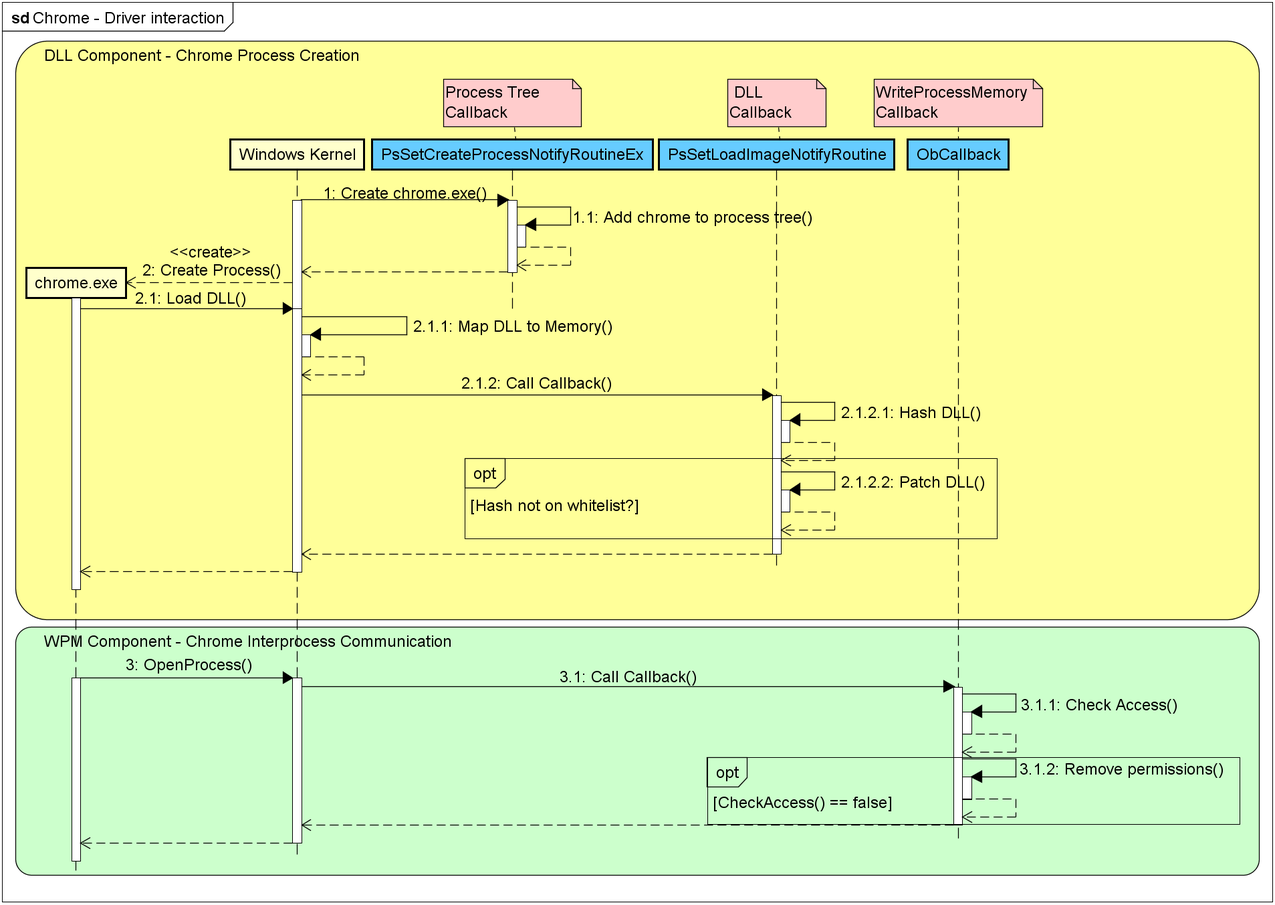
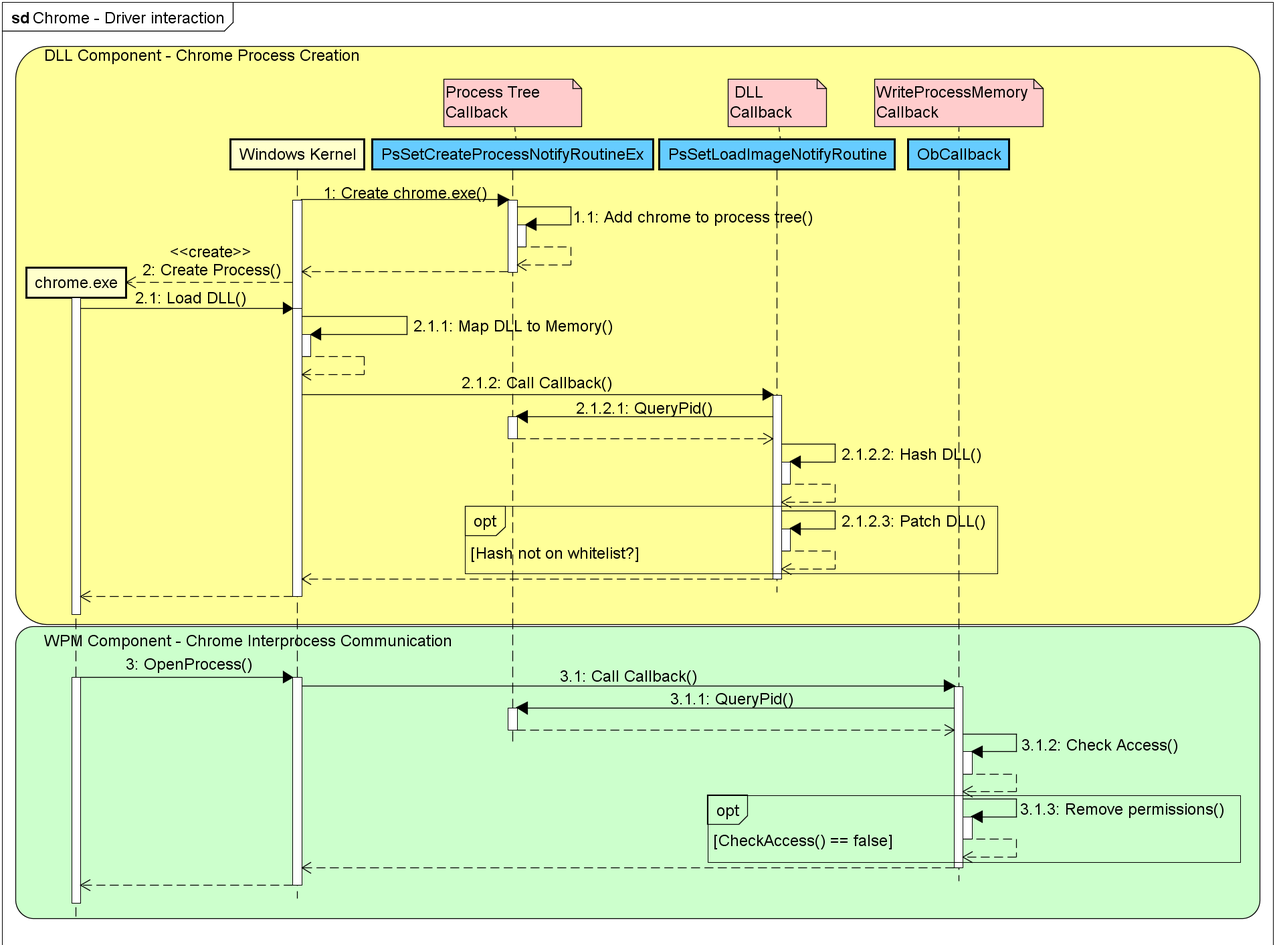
Finished design and implementation section

diff --git a/sections/implementation/implementation.tex b/sections/implementation/implementation.tex
@@ -1,32 +1,74 @@
-\section{Design and Implementation}
-The upcoming Design and Implementation chapter describes possible countermeasures to the previously shown attacks. The best working one is then being implemented.
-\input{sections/implementation/requirements.tex}
-\input{sections/implementation/architecture.tex}
 \subsection{Implementation}
 \label{sec:implementation} 
+Figure \ref{fig:interaction} showed a high level overview of the interaction between the needed callbacks. This section will focus on an actual implementation of the given architecture. To fulfill the requirement of not being disabled or avoided from usermode, this implemented defense is running in kernelmode and can not be access from usermode applications. Running applications in kernelmode is possible by using a driver and the callback functions of Figure \ref{fig:interaction} can be used. Figure \ref{fig:sequence} shows the actual communication between all involved objects, the \emph{Windows} kernel, the implemented driver and its callbacks and an actual process, in this case chrome.exe. The sequence diagram separates the communication into two parts represented by the colors yellow and green. The yellow part shows the interaction of the \gls{DLL} Component, the green part deals with the \gls{WPM} component. The third and last component, the process tree structure is involved in both \gls{DLL} and \gls{WPM} component. Appendix \ref{appendix:driver} shows the full code used for the implemented driver.
+\newgeometry{margin=0mm,headheight=0mm,footskip=0mm,includehead,includefoot}
+\begin{figure*}[htb] 
+ \centering
+ \makebox[\textwidth]{\includegraphics[angle=90,width=.85\paperwidth]{sections/implementation/driver-sequence.png}}
+\caption{Sequence diagram showing the interaction between driver, \emph{Chrome} and the \emph{Windows} kernel}
+\label{fig:sequence}
+\end{figure*}
+\restoregeometry
+\subsubsection{The Process Tree structure}
+A naive implementation that just checks for process' executable file name may result in an access gain for the attacker. In this case the attacker could rename itself to avoid the implemented countermeasure. To make the countermeasure unavoidable, a process tree structure is created, which tracks the actual \glspl{PID} to keep track of process hierarchies. The process tree structure stores processes into a linked list. Figure \ref{code:code1} shows the used code to define the process tree structure. Two structs are used, the first \syscall{\_PROCESS\_LIST\_ENTRY} represents parent processes of the list. The second, \syscall{\_PROCESS\_LIST\_ENTRY\_CHILD} represents child process of a parent process. The linked list structure is built by calling \syscall{InitializeListHead} \cite{msdn_initlisthead}.
+\begin{figure}[tbph]
+\inputminted[breakanywhere, breaklines,fontsize=\scriptsize, frame=single, mathescape, linenos, numbersep=5pt, numbersep=5pt, xleftmargin=0pt]{c}{sections/implementation/code1.c}
+\caption{Process Tree base structure}
+\label{code:code1}
+\end{figure}
+Whenever the \emph{Windows} kernel calls \syscall{PsSetCreateProcessNotifyRoutineEx} entries are added to or removed from the linked list structure. Figure \ref{code:code2} shows the method used for inserting such a process. At first, the process tree structure is searched for the given \gls{PID}. If the \gls{PID} is not part of the current process tree, a new entry is added. The list head for possible child processes needs to be initialized as well.
+\begin{figure}[tbph]
+\inputminted[breakanywhere, breaklines,fontsize=\scriptsize, frame=single, mathescape, linenos, numbersep=5pt, numbersep=5pt, xleftmargin=0pt]{c}{sections/implementation/code2.c}
+\caption{InsertPidToTree routine of the process tree structure}
+\label{code:code2}
+\end{figure}
+Because the process tree is used for \gls{DLL} and \gls{WPM}, a special query method is used, \syscall{FindPidInTree}. This function searches the process tree to find an existing \gls{PID} and is represented in Figure \ref{code:code3}. At first, all parents are checked. As most processes contain only a few or no children, this is faster than iterating over all processes at once. Only if no match is found, a one level deeper search is performed. This time, children are checked. If a match is found, the corresponding parent \gls{PID} is returned, or zero otherwise. The mapping of child \glspl{PID} to parent \glspl{PID} is important, to identify processes that are definitely allowed to do inter process communication.
+\begin{figure}[tbph]
+\inputminted[breakanywhere, breaklines,fontsize=\scriptsize, frame=single, mathescape, linenos, numbersep=5pt, numbersep=5pt, xleftmargin=0pt]{c}{sections/implementation/code3.c}
+\caption{FindPidInTree routine of the process tree structure}
+\label{code:code3}
+\end{figure}
 
-\subsection{Blocking \syscall{WriteProcessMemory} with a kernel mode driver}
-The newly created problem with the modified \gls{ACL} can be solved by creating a driver running in kernel-mode. As reading memory, checking files and running processes are a common problem when writing anti virus software, Microsoft introduced object manager routines since Windows Vista to provide an efficient way of reacting onto these events. A driver will then use \syscall{ObRegisterCallbacks} to get notified whenever processes are created, files are opened and images (\glspl{DLL} and EXEs) are loaded. This functionality offers the programmer to create a pre- and post-execution callback function, that gets called whenever a process tries to receive a process handle. Microsoft offers an example driver using \syscall{ObRegisterCallbacks} at \cite{github_obcallback} and shows how to modify the requested process handle permissions to prevent termination by other applications such as the task manager. 
+\subsubsection{The DLL Component}
+The DLL Component uses as entry point the \syscall{PsSetLoadImageNotifyRoutine} callback function. This function is executed whenever a \gls{DLL} is mapped into memory. During the function call, the process is in a suspended state and thus execution of the \gls{DLL} has not begun. However, this entry point for \gls{DLL} load prevention is not optimal, as this function call occurs after the \gls{DLL} was already mapped into memory and a pre loading callback would be better to use in this situation. Unfortunately, this callback function does not exist so far, so the implementation has to rely on the post load callback.
 
-In order to protect chrome, the same actions described earlier will now be taken from inside the driver. Newly created process handles will be restricted to non virtual memory modifying permissions and the existing problem with inter process communication can be resolved by not restricting chromes child processes explicitly and giving them a full access handle. Appendix \ref{appendix:driver} shows an implemented driver to fulfill the requirements.
+\medskip
 
-However, a naive implementation that just checks for process' executable file name may result in an access gain for the attacker. The injecting process simply has to be named chrome.exe and can gain access to the original chrome.exe. In this case, the implementation restricts outside access regardless of the given process name successfully. Children and parent \glspl{PID} are stored inside two separate tables that are on access checked if they contain target and source process ids. The driver is using a dynamic list structure, so that an unlimited number of processes can be tracked. Finally the check for access rights can be done by finding a given \gls{PID} inside the defined lists and returning a hash value, which uniquely identifies the process. 
+To make use of \syscall{PsSetLoadImageNotifyRoutine}, the \gls{IRQL} may not be changed, because otherwise it can lead to a deadlock or even make the system crash in a blue screen of death. The \gls{IRQL} is a hardware specific flag that gets set on the processor. Depending of the chosen level, the processor may not do a context switch until the \gls{IRQL} has been changed back to a lower value. \syscall{PsSetLoadImageNotifyRoutine} operates on \gls{IRQL} \syscall{PASSIVE\_LEVEL} and special kernel mode \glspl{APC} are disabled. \glspl{APC} are required to receive special event information. This can typically be found with I/O operations, where a file is being read. The kernel will fire an event as soon as the file read operation has finished, which wakes the calling thread and execution can continue. However, reading a file without such events will always deadlock the thread. These two conditions, the \gls{IRQL} and disabled \glspl{APC} are a major limitation, because reading the DLL file and calculating a hash is not possible inside this routine. The reason for the disabled special kernel mode \glspl{APC} is a previous call to the \syscall{KeEnterGuardedRegion} function, so a call to \syscall{KeLeaveGuardedRegion} can enable \gls{APC} events again. However, this should not be done here, as the result turns out to be unpredictable and leading to random deadlocks or failing accesses on files.
 
-A good hash for this tree is the parent \gls{PID}, as the process hierarchy is tracked inside the list. Only if both find operations result in a match of the returned \glspl{PID}, access is granted and no restriction is applied. Entries of the list (parent or child process) will get removed as soon as they exit, so that the remaining list is kept clean from garbage and reassignments of the same \gls{PID} do not lead to a security hole.
+\medskip
 
-\subsection{Blocking DLL Injection with a kernel mode driver}
-As previously stated, the resulting implementation already uses a kernel mode driver to prevent \gls{WPM} calls. It is therefore a suitable start point to prevent \gls{DLL} injections without being required to hook into the kernel. The Windows \gls{API} for drivers offers the \syscall{PsSetLoadImageNotfiyRoutine} function call, to register a callback function that is executed whenever a \gls{DLL} is mapped into memory. During the function call, the process is in a suspended state and thus execution of the \gls{DLL} has not begun. However, this entry point for \gls{DLL} load prevention is not optimal, as this function call occurs after the \gls{DLL} was already mapped into memory and a pre loading callback would be better to use in this situation. Unfortunately, this callback function does not exist so far, so the implementation has to rely on the post load callback.
+A solution can be found by using a second running thread, a so called work item, which execution is handled separately by the system. The advantage of this are the enabled special kernel mode \glspl{APC} and the possibility to freely change the \gls{IRQL} during execution. One major disadvantage of this way is, that some sort of thread synchronization between the work item and the initial callback function has to be introduced and thus resulting into driver typical busy waiting, which is still faster than non busy waiting and eventually occurring context changes. Figure \ref{code:code4} shows code which is executed after the callback function is called. At first, it is checked if the target process is a chrome.exe process. Only in this case, further checks are done and in the other case, DLL loading is permitted. The execution then continues with the code shown in Figure \ref{code:code5}, which is greatly simplified. The complete function is defined in Appendix \ref{appendix:driver}. A file handle to the DLL is obtained. Depending on the given input parameters to \syscall{PsSetLoadImageNotifyRoutine}, the given file path might be invalid. According to the \gls{MSDN} it is enough to use \syscall{ObOpenObjectByPointer} to get a file handle from a file object. As it turns out, this function is not working properly. The first call to \syscall{ObOpenObjectByPointer} succeeds and returns a valid file handle. All subsequent calls fail with \syscall{STATUS\_UNSUCCESSFUL}. Kernel debugging allows to find the reason of failure, which is an internal call to \syscall{ObpIncrementHandleCount} that returns \syscall{STATUS\_UNSUCCESFUL}. There can be found nothing with respect to this problem and it might be a bug inside the \emph{Windows} kernel itself. Therefore, manually path building is done which adds the corresponding drive letter and removes superfluous characters. Finally, after having a valid file handle, the file is read into memory and a sha256 \cite{eckert2014sicherheit} hash is generated, which is used later to compare it to a known whitelist of \gls{DLL} files.
 
-To make use of \syscall{PsSetLoadImageNotifyRoutine}, the \gls{IRQL} may not be changed, because otherwise it can lead to a deadlock or even make the system crash in a blue screen of death. Most notably is the fact that the function call occurs on \gls{IRQL} \syscall{PASSIVE\_LEVEL} and special kernel mode \glspl{APC} are disabled. This is at first a major limitation to naive implementations. Opening and reading file calls will not complete, as the underlying \gls{APC} event is not sent, thus in a naive implementation, reading a file seems impossible at a first glance. The reason for the disabled special kernel mode \glspl{APC} is a previous call to the \syscall{KeEnterGuardedRegion} function, so a call to \syscall{KeLeaveGuardedRegion} can enable \gls{APC} events again. However, this should not be done here, as the result turns out to be unpredictable and leading to random deadlocks or failing accesses on files.
+\begin{figure}[tbph]
+\inputminted[breakanywhere, breaklines,fontsize=\scriptsize, frame=single, mathescape, linenos, numbersep=5pt, numbersep=5pt, xleftmargin=0pt]{c}{sections/implementation/code4.c}
+\caption{Code that checks if the target process is a chrome.exe process}
+\label{code:code4}
+\end{figure}
 
-Having a deeper look at the windows kernel with a kernel debugger, a solution can be obtained by using a second running thread, a so called work item, which execution is handled separately by the system. The advantage of this are the enabled special kernel mode \glspl{APC} and the possibility to freely change the \gls{IRQL} during execution. One major disadvantage of this way is, that some sort of thread synchronization between the work item and the initial callback function has to be introduced and thus resulting into driver typical busy waiting, which is still faster than non busy waiting and eventually occurring context changes. 
+\begin{figure}[tbph]
+\inputminted[breakanywhere, breaklines,fontsize=\scriptsize, frame=single, mathescape, linenos, numbersep=5pt, numbersep=5pt, xleftmargin=0pt]{c}{sections/implementation/code5.c}
+\caption{The used hashing function to generate sha256 from DLL files}
+\label{code:code5}
+\end{figure}
+\medskip
 
-A file handle can now be obtained and from the file data a sha256 \cite{eckert2014sicherheit} hash is generated, which is used later to compare it to a known whitelist of \gls{DLL} files. The Windows \gls{API} offers several different ways of obtaining a valid file handle with functions like \syscall{ZwOpenFile} or \syscall{ObOpenObjectByPointer}. The second function \syscall{ObOpenObjectByPointer} will generate a handle from a given pointer to an object. That is exactly what can be found inside the input parameters of the \syscall{PsSetLoadImageNotifyRoutine} callback. The image info can be extended to obtain a file object, and the \syscall{ObOpenObjectByPointer} function can then be used to obtain a handle from this file object. Though, this did not work in all cases and lead to \emph{random} results. 
+\begin{figure}[tbph]
+\inputminted[breakanywhere, breaklines,fontsize=\scriptsize, frame=single, mathescape, linenos, numbersep=5pt, numbersep=5pt, xleftmargin=0pt]{c}{sections/implementation/code6.c}
+\caption{The used patch function to destroy DLL files.}
+\label{code:code6}
+\end{figure}
+Comparing the resulting sha256 hash to a whitelist leads to two possible actions that are now taken: doing nothing, in case of a match or, patching of the \gls{DLL} file, in case of no match. Figure \ref{code:code6} shows the used patch function, that is executed whenever no match in the whitelist is found.
+An initial thought could be to undo the internal \syscall{ZwMapViewOfSection}/\syscall{NtMapViewOfSection} function that loaded the \gls{DLL} into memory by calling its counter pair \syscall{ZwUnmapViewOfSection}/\syscall{NtUnmapViewOfSection} and thus removing the \gls{DLL} from memory. This will not succeed as a special lock is hold, the LdrLoadLoaderLock, that can not be accessed at this point of code. Calling the functions regardless will deadlock the driver and soon after deadlock the whole system. 
 
-If a file was opened a first time, \syscall{ObOpenObjectByPointer} will succeed and return a valid file handle. Subsequent calls to the same file lead to error \syscall{STATUS\_UNSUCCESSFUL} for no obvious reason. Kernel-debugging allowed to find the reason of failure, which is an internal call to \syscall{ObpIncrementHandleCount} that returns \syscall{STATUS\_UNSUCCESFUL}. There can be found nothing with respect to this problem and it might be a bug inside the windows kernel itself. 
-
-Therefore, \syscall{ObOpenObjectByPointer} can not be used and only \syscall{ZwOpenFile} works as expected, but gives a new problem, the full file path. Path constructions is required, but will overall work and allow reading of all loaded \gls{DLL} files. Finally, the resulting sha256 hash can be calculated and compared to the whitelist and if no match is found, actions can be taken to prevent the \gls{DLL} from executing. 
-
-An initial thought could be to undo the internal \syscall{ZwMapViewOfSection}/\syscall{NtMapViewOfSection} function that loaded the \gls{DLL} into memory by calling its counter pair \syscall{ZwUnmapViewOfSection}/\syscall{NtUnmapViewOfSection} and thus removing the \gls{DLL} from memory. The idea is great, but will not succeed as a special lock is hold, the LdrLoadLoaderLock, that can not be accessed at this point of code. Calling the functions regardless will deadlock the driver and soon after deadlock the whole system.
+\medskip
 
 Thus, the \gls{DLL} will only get patched, rendering it, although still residing in memory, useless. To do that, three points in memory receive modifications: the entry point address, the \syscall{DOS MZ header}, which describes the file format of a \gls{DLL} with many meta information and the entry point function. The entry point address is set to \syscall{NULL}, the entry point function will get patched with a single \syscall{ret} (0xC3) instruction to prevent execution and the memory containing the \syscall{DOS MZ header} will get zeroed. All three steps guarantee, that nothing will be able to execute from this memory mapped \gls{DLL} file and thus preventing the typical \gls{DLL} injections from \syscall{SetWindowsHookEx}, the registry or other techniques.
+
+\subsubsection{The WPM Component}
+The \gls{WPM} component uses as entry point a callback function registered with \syscall{ObRegisterCallback}. This callback function is called whenever a process handle is created. \syscall{ObRegisterCallbacks} allows to setup a pre- and post-execution callback to modify the permissions requested with the process handle. Microsoft offers an example driver using \syscall{ObRegisterCallbacks} at \cite{github_obcallback} and shows how to modify the requested process handle permissions to prevent termination by other applications such as the task manager. In order to protect chrome, the same structure \emph{Microsoft} uses is used. Instead of preventing termination, the permissions of modifying a process virtual memory are removed. Figure \ref{code:code7} contains the code which is executed whenever the callback function is executed. At first, both processes, the target and the current one, need to be retrieved. Then several checks are done to see if the virtual memory modifications should be allowed. If the current and target processes have the same \gls{PID}, nothing is done. Otherwise a lookup in the Process Tree structure is done, to receive the corresponding parent \glspl{PID}. If the parent \glspl{PID} match, nothing is done. In case no match is found, the permission \syscall{PROCESS\_VM\_WRITE} is removed from the process handle and calls to \syscall{WriteProcessMemory} will fail.
+\begin{figure}[tbph]
+\inputminted[breakanywhere, breaklines,fontsize=\scriptsize, frame=single, mathescape, linenos, numbersep=5pt, numbersep=5pt, xleftmargin=0pt]{c}{sections/implementation/code7.c}
+\caption{The used callback function to detect virtual memory modifications.}
+\label{code:code7}
+\end{figure}

diff --git a/sections/implementation/architecture.tex b/sections/implementation/architecture.tex
@@ -8,25 +8,19 @@ The attacks of Section \ref{sec:attacks} can be classified into two groups which
 \label{fig:interaction}
 \end{figure}
 
-\medskip
-
-The classification into the two groups, \gls{DLL} and \gls{WPM}, is used to for the architecture design. Figure \ref{fig:interaction} shows the interacting components in an abstract representation. \emph{Windows} offers three entry points that will get called by the kernel, whenever a process is started, opened or a \gls{DLL} is loaded. The registered callback functions will then need to do several checks on the given information and based on this allow or deny execution. To prevent the group of \gls{WPM} attacks, a WPM callback is registered which checks if the given \gls{PID} is in a whitelist. If it is not, the request is denied by removing the required permissions to execute \gls{WPM} attacks. Because \glspl{PID} are dynamically assigned by the kernel and the possibility of reusing \glspl{PID}, a internal structure, a process tree, needs to be maintained. This thus adds communication between the three callback functions and the process tree as seen in Figure \ref{fig:interaction}. The \syscall{PsSetCreateProcessNotifyRoutine} callback function is called whenever a process is created or destroyed. Accordingly, whenever this callback function is executed, the process is inserted into the process tree structure on process creation, and removed from the process tree structure on process deletion. The process tree hereby maintains a list of lists, which is shown in Figure \ref{fig:listoflists}.
+The classification into the two groups, \gls{DLL} and \gls{WPM}, is used to for the architecture design. Figure \ref{fig:interaction} shows the interacting components in an abstract representation. \emph{Windows} offers three entry points that will get called by the kernel, whenever a process is started, opened or a \gls{DLL} is loaded. The registered callback functions will then need to do several checks on the given information and based on this allow or deny execution. 
+\paragraph{WPM Component}
+To prevent the group of \gls{WPM} attacks, a WPM callback is registered which checks if the given \gls{PID} is in a whitelist. If it is not, the request is denied by removing the required permissions to execute \gls{WPM} attacks. Because \glspl{PID} are dynamically assigned by the kernel and the possibility of reusing \glspl{PID}, a internal structure, a process tree, needs to be maintained. This thus adds communication between the three callback functions and the process tree as seen in Figure \ref{fig:interaction}. 
+\paragraph{Process Tree Structure}
+The \syscall{PsSetCreateProcessNotifyRoutine} callback function is called whenever a process is created or destroyed. Accordingly, whenever this callback function is executed, the process is inserted into the process tree structure on process creation, and removed from the process tree structure on process deletion. The process tree hereby maintains a list of lists, which is shown in Figure \ref{fig:listoflists}.
 \begin{figure}[!htbp]
 \centering
 \includegraphics[scale=0.6]{sections/implementation/listoflists.png}
-\caption{The interaction of the drivers components}
+\caption{The process tree structure. A list of parent processes with their children}
 \label{fig:listoflists}
 \end{figure}
 Each list separates the processes parents with their children from other processes. If the process tree gets queried for a specific \gls{PID} the parent \gls{PID} gets returned. To illustrate this interaction, the data of Figure \ref{fig:listoflists} is used for an example. If the process tree is queried with \gls{PID} 3812, a lookup in the process tree occurs to find a process with \gls{PID} 3812. In this case, the process is a child of chrome.exe with \gls{PID} 2460.
 Because process 3812 is a child process, its parent 2460 is returned. For a second example, consider the process tree being queried for \gls{PID} 2460. Another lookup is done and a process with \gls{PID} 2460 is found. Because 2460 is a parent process, the process tree structure returns the value 2460.
 
-
-
-\newgeometry{margin=0mm,headheight=0mm,footskip=0mm,includehead,includefoot}
-\begin{figure*}[tb] 
- \centering
- \makebox[\textwidth]{\includegraphics[angle=90,width=.85\paperwidth]{sections/implementation/driver-sequence.png}}
-\caption{Sequence diagram showing the interaction between driver, \emph{Chrome} and the \emph{Windows} kernel}
-\label{fig:sequence}
-\end{figure*}
-\restoregeometry
+\paragraph{DLL Component}
+The last callback function of Figure \ref{fig:interaction}, \syscall{PsSetLoadImageNotifyRoutine}, is called by the \emph{Windows} kernel whenever a DLL is loaded. The callback routine queries the process tree structure for a given \gls{PID} to see if this is a chrome.exe process. If it is a chrome.exe process, the callback generates a hash of the DLL file, compares it to a whitelist and if a match can not be found takes action to prevent DLL loading.

diff --git a/sections/implementation/code7.c b/sections/implementation/code7.c
@@ -1,0 +1,38 @@
+//Get both processes
+PEPROCESS OpenedProcess = (PEPROCESS)InPreInfo->Object;
+PEPROCESS CurrentProcess = PsGetCurrentProcess();
+
+//Do we have the same process?
+if (OpenedProcess == CurrentProcess)
+{
+	goto Exit;
+}
+
+//Get the names of the processes
+LPSTR OpenedProcName = GetProcessNameFromPid(PsGetProcessId(OpenedProcess));
+LPSTR TargetProcName = GetProcessNameFromPid(PsGetCurrentProcessId());
+//..
+//Names match (chrome == chrome) or PIDs match
+if (!_stricmp(TargetProcName, OpenedProcName) || PsGetProcessId(OpenedProcess) == PsGetCurrentProcessId())
+{
+	//Are PIDs equal?
+	if (PsGetProcessId(OpenedProcess) == PsGetCurrentProcessId())
+	{
+		//Pids are equal -> self access
+		goto Exit;
+	}
+
+	//Locate both processed inside the process tree
+	ULONG currentPid = FindPidInTree(HandleToLong(PsGetCurrentProcessId()));
+	ULONG openedPid = FindPidInTree(HandleToLong(PsGetProcessId(OpenedProcess)));
+
+	//Do they match?
+	if (currentPid == openedPid)
+	{
+		//Self access (possible cases: parent -> parent, parent -> child, child -> parent, child -> child)
+		goto Exit;
+	}
+}
+//Otherwise we have an unallowed access!
+//Remove permission to modify (write into) virtual memory
+InPreInfo->Parameters->CreateHandleInformation.DesiredAccess &= ~(PROCESS_VM_WRITE);

diff --git a/sections/implementation/code6.c b/sections/implementation/code6.c
@@ -1,0 +1,39 @@
+//This is the patch routine which will break the DLL file
+void PatchRoutine(PVOID Parameter)
+{
+	//...
+	//To access the dll in memory, we have to reach into the process virtual memory
+	PRKAPC_STATE apcState = AllocMemory(TRUE, sizeof(KAPC_STATE));
+	PEPROCESS pEProcess;
+	if (!NT_SUCCESS(Status = PsLookupProcessByProcessId(WorkItem->ProcessId, &pEProcess)))
+	{
+		DEBUG("Process Lookup failed: %d\n", Status);
+		goto Exit;
+	}
+	//We attach to it here
+	KeStackAttachProcess(pEProcess, apcState);
+
+	//First of all Write protection is disabled
+#ifdef X64_DRIVER
+	KIRQL CurrentIRQL = RtlWPOff();
+#endif
+	//The IRQL needs to be lowered to <=APC_LEVEL, so that PAGE faults don't lead to a BugCheck
+	KeLowerIrql(APC_LEVEL);
+	//Get the entryPoint of the dll
+	uint8* entryPointAbs = ReadPE(WorkItem->ImageBase);
+
+	//Patch the entry point function by writing a ret instruction
+	uint8 patch[] = { 0xC3 }; //ret
+	CopyMemory(entryPointAbs, patch, sizeof(patch));
+
+	//Undo KeLowerIRQL to previous IRQL level from RtlWpOff
+	KeRaiseIrqlToDpcLevel();
+	//And enabled again
+#ifdef X64_DRIVER
+	RtlWPOn(CurrentIRQL);
+#endif
+
+	//And after patching is done, we detach from it
+	KeUnstackDetachProcess(apcState);
+	//...
+}

diff --git a/sections/implementation/code3.c b/sections/implementation/code3.c
@@ -1,0 +1,40 @@
+//Finds PID inside the tree
+ULONG FindPidInTree(ULONG InPid)
+{
+	KLOCK_QUEUE_HANDLE SpinLockHandle;
+	KeAcquireInStackQueuedSpinLock(PTreeSpinLock, &SpinLockHandle);
+
+	//First, quickly check parents
+	PLIST_ENTRY entry = PListHead->Flink;
+	while (PListHead != entry->Flink)
+	{
+		if (CONTAINING_RECORD(entry, PROCESS_LIST_ENTRY, ListEntry)->Pid == InPid)
+		{
+			KeReleaseInStackQueuedSpinLock(&SpinLockHandle);
+			return InPid;
+		}
+		entry = entry->Flink;
+	}
+
+	//If not found, check children of all parents
+	entry = PListHead->Flink;
+	while (PListHead != entry->Flink)
+	{
+		PLIST_ENTRY childHead = CONTAINING_RECORD(entry, PROCESS_LIST_ENTRY, ListEntry)->ChildHead;
+		PLIST_ENTRY child = childHead;
+		while (childHead != child->Flink)
+		{
+			child = child->Flink;
+			if (CONTAINING_RECORD(child, PROCESS_LIST_ENTRY_CHILD, ListEntry)->Pid == InPid)
+			{
+				DEBUG("Exit Find Pid PTree\n");
+				KeReleaseInStackQueuedSpinLock(&SpinLockHandle);
+				return CONTAINING_RECORD(child, PROCESS_LIST_ENTRY_CHILD, ListEntry)->ParentPid;
+			}
+		}
+		entry = entry->Flink;
+	}
+
+	KeReleaseInStackQueuedSpinLock(&SpinLockHandle);
+	return 0;
+}

diff --git a/sections/implementation/code2.c b/sections/implementation/code2.c
@@ -1,0 +1,27 @@
+//Inserts a new parent pid
+VOID InsertPidToTree(ULONG InPid)
+{
+	KLOCK_QUEUE_HANDLE SpinLockHandle;
+	KeAcquireInStackQueuedSpinLock(PTreeSpinLock, &SpinLockHandle);
+
+	//Check if tree already contains parent and return
+	PLIST_ENTRY entry = PListHead->Flink;
+	while (PListHead != entry->Flink)
+	{
+		if (CONTAINING_RECORD(entry, PROCESS_LIST_ENTRY, ListEntry)->Pid == InPid)
+		{
+			KeReleaseInStackQueuedSpinLock(&SpinLockHandle);
+			return;
+		}
+		entry = entry->Flink;
+	}
+
+	//Otherwise add new parent list entry
+	PPROCESS_LIST_ENTRY newEntry = AllocMemory(TRUE, sizeof(PROCESS_LIST_ENTRY));
+	newEntry->Pid = InPid;
+	newEntry->ChildHead = AllocMemory(TRUE, sizeof(LIST_ENTRY));
+	InitializeListHead(newEntry->ChildHead);
+	InsertHeadList(PListHead, &(newEntry->ListEntry));
+
+	KeReleaseInStackQueuedSpinLock(&SpinLockHandle);
+}

diff --git a/sections/implementation/code5.c b/sections/implementation/code5.c
@@ -1,0 +1,31 @@
+//This is the hash routine which generates the sha256 hash
+void HashRoutine(PVOID Parameter)
+{
+	//We will need to get a fileHandle
+	HANDLE fileHandle = NULL;
+	uint8* fileData = NULL;
+	NTSTATUS Status;
+
+	//...
+	//A file handle is obtained, sometimes additional path building is done
+	//...
+
+	Checksum:
+		//Get the file size
+		LARGE_INTEGER file_size;
+		if (!NT_SUCCESS(Status = GetFileSize(WorkItem->FileObject, &file_size)))
+		{
+			goto Fail;
+		}
+
+		//Allocate data buffer and read file into buffer
+		fileData = AllocMemory(TRUE, file_size.LowPart);
+		if (!NT_SUCCESS(Status = ReadFile(fileHandle, file_size.LowPart, fileData)))
+		{
+			goto Fail;
+		}
+
+		//Finally hash the data contained inside fileData
+		WorkItem->Result = calc_sha256(fileData, file_size.LowPart);
+	//...
+}

diff --git a/sections/implementation/code4.c b/sections/implementation/code4.c
@@ -1,0 +1,16 @@
+//Should the dll get loaded into a chrome process?
+if (FindPidInTree(HandleToULong(InProcessId)) == 0)
+{
+	//Maybe we're just coming early into this routine - check if this is a chrome.exe process
+	LPSTR OpenedProcName = GetProcessNameFromPid(InProcessId);
+
+	if (strcmp(OpenedProcName, "chrome.exe") == 0)
+	{
+		//This is a chrome process, check if the dlls are okay.
+		goto Check;
+	}
+
+	//No - then do nothing
+	DEBUG("Not tracked: PID: %d ImageName: %wZ\n", HandleToLong(InProcessId), InFullImageName);
+	goto Allow;
+}

diff --git a/sections/implementation/designandimplementation.tex b/sections/implementation/designandimplementation.tex
@@ -1,0 +1,5 @@
+\section{Design and Implementation}
+This Design and Implementation chapter describes first defines the needed requirements. Then a requirement fulfilling solution is designed and implemented.
+\input{sections/implementation/requirements.tex}
+\input{sections/implementation/architecture.tex}
+\input{sections/implementation/implementation.tex}

diff --git a/thesis.tex b/thesis.tex
@@ -84,7 +84,7 @@
 % PUT Content here!
 \include{sections/introduction/introduction}
 \include{sections/background/background}
-\include{sections/implementation/implementation}
+\include{sections/implementation/designandimplementation}
 \include{sections/evaluation/evaluation}
 \include{sections/futurework/futurework}
  

diff --git a/sections/implementation/code1.c b/sections/implementation/code1.c
@@ -1,0 +1,13 @@
+struct _PROCESS_LIST_ENTRY
+{
+	LIST_ENTRY ListEntry;
+	ULONG Pid;
+	PLIST_ENTRY ChildHead;
+};
+
+struct _PROCESS_LIST_ENTRY_CHILD
+{
+	LIST_ENTRY ListEntry;
+	ULONG Pid;
+	ULONG ParentPid;
+};
